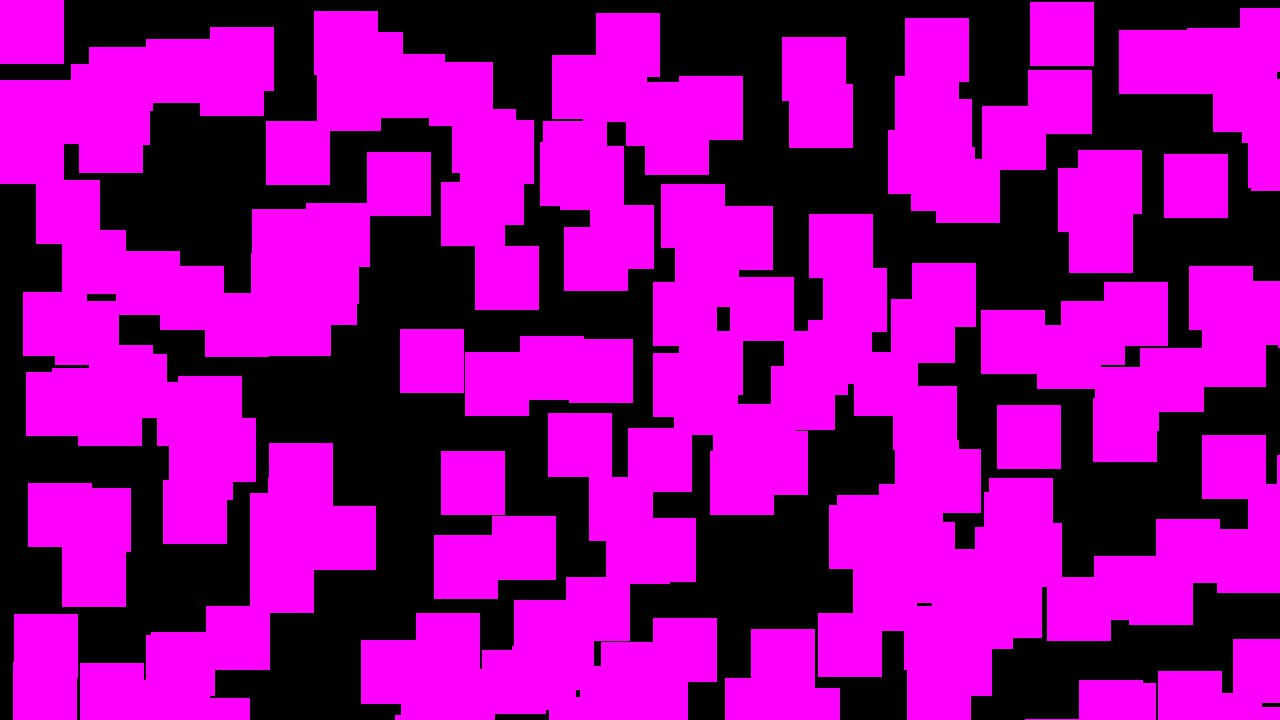
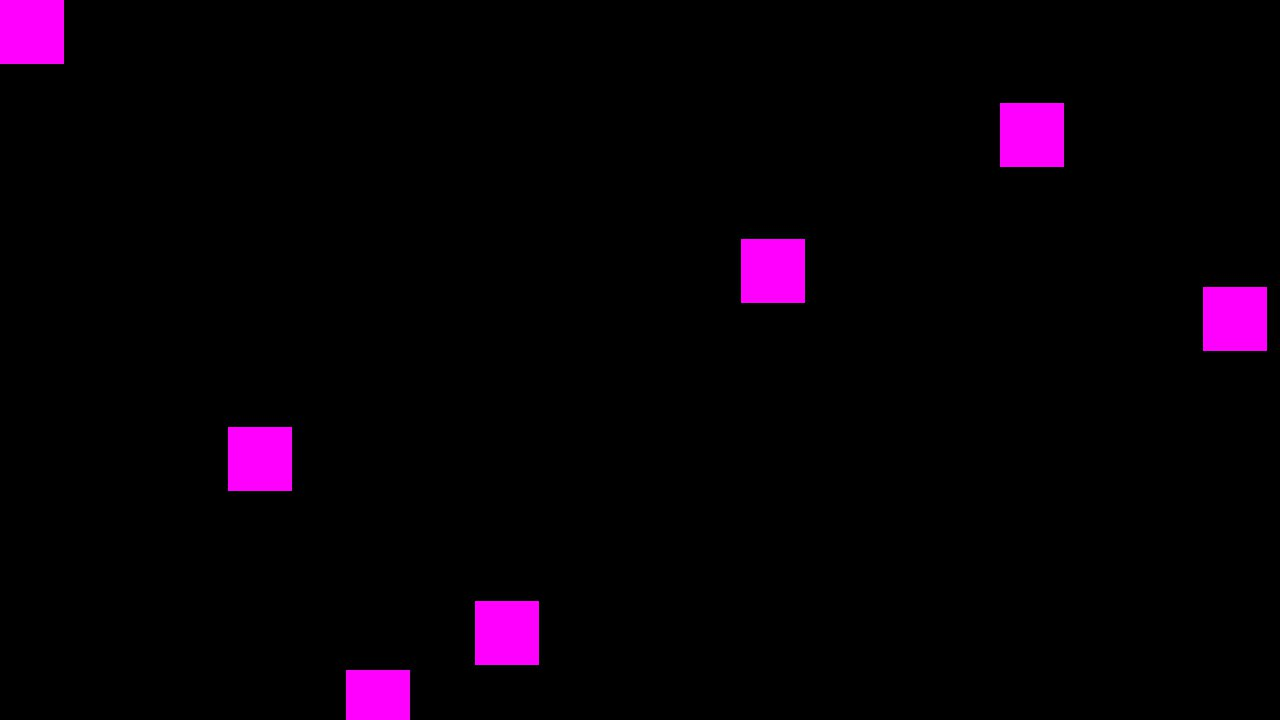
0.4

diff --git a/Editor.py b/Editor.py
@@ -1,4 +1,4 @@
-import os, random, subprocess, pygame, time, pickle, shutil, UI as ui, Engine as engine, DisplayManager
+import os, random, Cleaner, pygame, time, pickle, UI as ui, DisplayManager
 from pathlib import Path
 
 run = True
@@ -56,8 +56,16 @@ def new_object(object_type):
 first_time = True
 while run:
     event_handler = []
+    keys = pygame.key.get_pressed()
+    tree_panel = ui.Panel(x=15, y=70, width=400, height=625 + height_scaler, colour=(200, 200, 200))
+    select_project_queue = (background, tree_panel, tree_header, preview_panel, dropdown_test, create_item_dropdown)
+    if keys[pygame.K_f]:
+        new_object("Rect")
+
+
     for event in pygame.event.get():
         if event.type == pygame.QUIT:
+            Cleaner.clear_cache()
             run = False
         if event.type == pygame.VIDEORESIZE:
             win = pygame.display.set_mode((event.w, event.h), pygame.RESIZABLE)
@@ -72,19 +80,32 @@ while run:
         if "Rect" in event_handler[-1]:
             new_object("Rect")
     #exec(open('Engine.py').read())
+        with open(f"{current_project_path}\Rect.type", 'rb') as f:
+            rects = pickle.load(f)
+        y_offset = 0
+        for rect in rects:
+            object_button = ui.Button(x=30, y=150 + y_offset, font_size=50, item_id=rect["name"], active_font=(220, 220, 220), passive_colour=(75, 75, 75), active_colour=(38, 38, 38), icon="+")
+            object_label = ui.TextBox(x=65, y=150 + y_offset, font_size=30, font_colour=(30, 30, 30), text=rect["name"])
 
-    random_number = random.randint(0, 50)
+            event_handler.append(object_button.draw(win))
+            event_handler.append(object_label.draw(win))
+
+            y_offset += 50
+    # random_number = random.randint(0, 50)
     
-    if random_number < 25:
-        new_object("Rect")
+    # if random_number < 25:
+    #     new_object("Rect")
     
     if first_time:
         os.startfile(f"Engine.py")
         first_time = False
 
+    
+
     game_window = DisplayManager.display("load", "load", "load")
+    fullscreen_game_window = pygame.transform.scale(game_window, (768 + width_scaler, 432 + height_scaler))
     try:
-        win.blit(game_window, (430, 70))
+        win.blit(fullscreen_game_window, (430, 70))
     except:
         pass
 

diff --git a/DisplayManager.py b/DisplayManager.py
@@ -12,6 +12,11 @@ def display(access, win_display, win):
             game_window = pygame.transform.scale(fullsize_game_window, (768, 432))
             return game_window
         except:
-            fullsize_game_window = pygame.image.load(os.path.join("temp_display.jpg"))
-            game_window = pygame.transform.scale(fullsize_game_window, (768, 432))
-            return game_window
+            try:
+                fullsize_game_window = pygame.image.load(os.path.join("temp_display.jpg"))
+                #game_window = pygame.transform.scale(fullsize_game_window, (768, 432))
+                return fullsize_game_window
+            except:
+                fullsize_game_window = pygame.image.load(os.path.join("display.jpg"))
+                game_window = pygame.transform.scale(fullsize_game_window, (768, 432))
+                return game_window

diff --git a/Cleaner.py b/Cleaner.py
@@ -1,0 +1,10 @@
+import os
+
+def clear_cache():
+    main_path = os.path.dirname(os.path.realpath(__file__)) 
+    cache_path = main_path = "\cache"
+
+    os.remove(cache_path+"\info.cache")
+    os.remove("display.jpg")
+    os.remove("temp_display.jpg")
+
